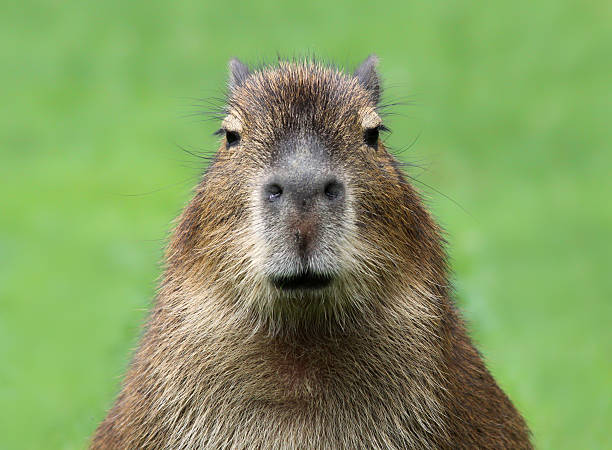
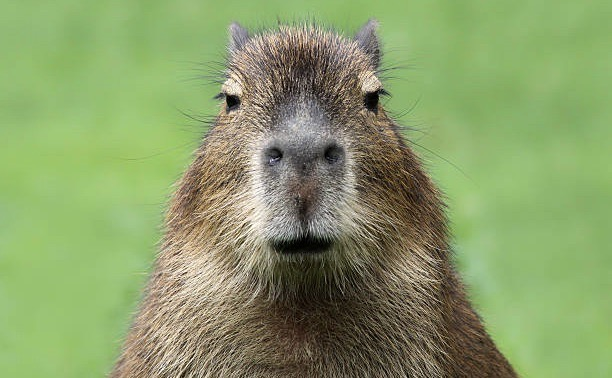
VST has waveshape and cool image for viewing

diff --git a/AmpSim/Source/PluginEditor.cpp b/AmpSim/Source/PluginEditor.cpp
@@ -140,8 +140,9 @@ std::vector<juce::Component*> AmpSimAudioProcessorEditor::getComps()
         /* Fx 2 */
         &effect2,
         
-        /* Image */
-        &ampImage
+        /* Images */
+        &ampImage,
+        &coolImage
     };
 }
 
@@ -231,7 +232,7 @@ void AmpSimAudioProcessorEditor::resized()
     auto fxArea2 = windowBounds.removeFromRight(windowBounds.getWidth()/4.f);
     auto comboArea = windowBounds.removeFromBottom(windowBounds.getHeight()/7.f);
     auto singleKnobFxArea = windowBounds.removeFromBottom(windowBounds.getHeight()/3.f);
-    auto imageArea = windowBounds.removeFromLeft(windowBounds.getHeight());
+    auto waveArea = windowBounds.removeFromLeft(windowBounds.getHeight());
     
     /* Amp slider section */
     preGainSlider.setBounds(ampArea.removeFromLeft(ampArea.getWidth()/5.f));
@@ -256,8 +257,11 @@ void AmpSimAudioProcessorEditor::resized()
     /* Effect 2 section */
     effect2.setBounds(fxArea2);
     
-    /* Image */
-    ampImage.setBounds(imageArea);
+    /* Waveshape Image */
+    ampImage.setBounds(waveArea);
+    
+    /* Cool Image */
+    coolImage.setBounds(windowBounds);
 }
 
 //==============================================================================
@@ -275,35 +279,43 @@ void AmpSimAudioProcessorEditor::waveshaperChanged()
             /* Low gain amps */
         case Clean:
             ampImage.setImage(juce::ImageCache::getFromMemory(BinaryData::clean_png, BinaryData::clean_pngSize));
+            coolImage.setImage(juce::ImageCache::getFromMemory(BinaryData::capybara_jpeg, BinaryData::capybara_jpegSize));
             break;
             
         case Asinine:
             ampImage.setImage(juce::ImageCache::getFromMemory(BinaryData::asinine_png, BinaryData::asinine_pngSize));
+            coolImage.setImage(juce::ImageCache::getFromMemory(BinaryData::capybara2_jpeg, BinaryData::capybara2_jpegSize));
             break;
             
         case Reptile:
             ampImage.setImage(juce::ImageCache::getFromMemory(BinaryData::reptile_png, BinaryData::reptile_pngSize));
+            coolImage.setImage(juce::ImageCache::getFromMemory(BinaryData::capybara3_jpeg, BinaryData::capybara3_jpegSize));
             break;
             
         case Geeky:
             ampImage.setImage(juce::ImageCache::getFromMemory(BinaryData::geeky_png, BinaryData::geeky_pngSize));
+            coolImage.setImage(juce::ImageCache::getFromMemory(BinaryData::capybara4_jpeg, BinaryData::capybara4_jpegSize));
             break;
             
         case SmolCronch:
             ampImage.setImage(juce::ImageCache::getFromMemory(BinaryData::smolcronch_png, BinaryData::smolcronch_pngSize));
+            coolImage.setImage(juce::ImageCache::getFromMemory(BinaryData::capybara5_jpeg, BinaryData::capybara5_jpegSize));
             break;
             
             /* High gain amps*/
         case FatMan:
             ampImage.setImage(juce::ImageCache::getFromMemory(BinaryData::fatman_png, BinaryData::fatman_pngSize));
+            coolImage.setImage(juce::ImageCache::getFromMemory(BinaryData::capybara6_jpeg, BinaryData::capybara6_jpegSize));
             break;
             
         case Circle7:
             ampImage.setImage(juce::ImageCache::getFromMemory(BinaryData::circle7_png, BinaryData::circle7_pngSize));
+            coolImage.setImage(juce::ImageCache::getFromMemory(BinaryData::capybara7_jpeg, BinaryData::capybara7_jpegSize));
             break;
             
         case ForkInToaster:
             ampImage.setImage(juce::ImageCache::getFromMemory(BinaryData::forkintoaster_png, BinaryData::forkintoaster_pngSize));
+            coolImage.setImage(juce::ImageCache::getFromMemory(BinaryData::capybara8_jpeg, BinaryData::capybara8_jpegSize));
             break;
     }
     

diff --git a/AmpSim/Source/PluginEditor.h b/AmpSim/Source/PluginEditor.h
@@ -107,8 +107,9 @@ private:
     std::unique_ptr<juce::AudioProcessorValueTreeState::ComboBoxAttachment> convolutionAtt;
     void convolutionChanged();
     
-    /* Image */
+    /* Images */
     juce::ImageComponent ampImage;
+    juce::ImageComponent coolImage;
     juce::Path waveShapePath;
     int imageCheck;
     
